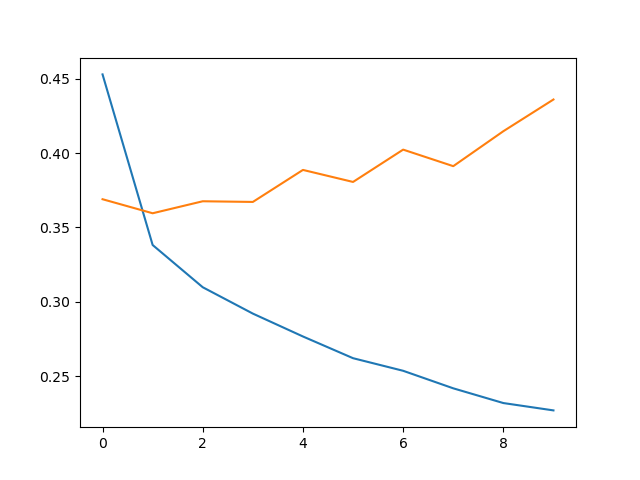
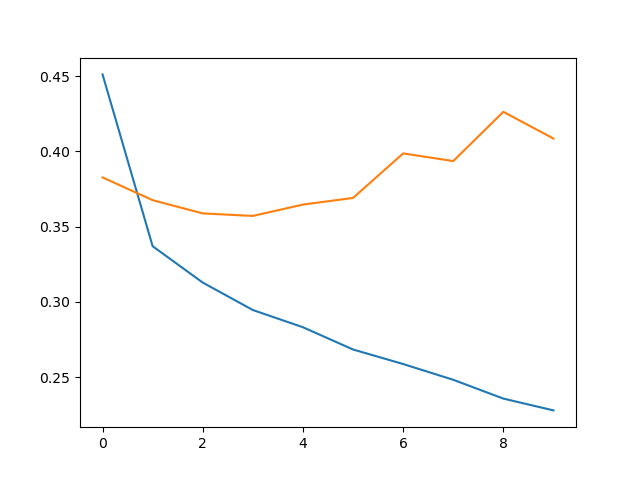
data

diff --git a/IT_SYSTEM/ch09lstm.py b/IT_SYSTEM/ch09lstm.py
@@ -12,6 +12,7 @@ tf.config.experimental.set_memory_growth(physical_devices[0], enable=True)
 print(np.shape(x_train_all))
 for i in range(len(x_train_all)):
     x_train_all[i] = [w for w in x_train_all[i] if w > 2]
+    x_test[i] = [w for w in x_test[i] if w > 2]
 print(np.shape(x_train_all))
 np.random.seed(42)
 random_index = np.random.permutation(25000)
@@ -20,54 +21,54 @@ y_train = y_train_all[random_index[:20000]]
 x_val = x_train_all[random_index[20000:]]
 y_val = y_train_all[random_index[20000:]]
 
-maxlength=100
-x_train_seq = sequence.pad_sequences(x_train, maxlen=maxlength)
-x_val_seq = sequence.pad_sequences(x_val, maxlen=maxlength)
-
-model_lstm = Sequential()
-model_lstm.add(Embedding(1000,32))
-model_lstm.add(LSTM(8))
-model_lstm.add(Dense(1,activation='sigmoid'))
-model_lstm.compile(optimizer = 'adam', loss = 'binary_crossentropy', metrics=['accuracy'])
-model_lstm.summary()
-history = model_lstm.fit(x_train_seq, y_train, epochs=10, batch_size=32, validation_data=(x_val_seq,y_val))
-"""
-Model: "sequential"
-embedding : same as embedding rnn
-LSTM :
-    forget, input, output, temporary cell have same size of weight
-    weight : W(h) + U(x) + b(bias) = 8 + 32 + 1
-    # of params : 4 x (8 + 32 + 1) * 8(recurrent cell) 1312
-dense : same as rnn
-
-_________________________________________________________________
-Layer (type)                 Output Shape              Param #   
-=================================================================
-embedding (Embedding)        (None, None, 32)          32000     
-_________________________________________________________________
-lstm (LSTM)                  (None, 8)                 1312      
-_________________________________________________________________
-dense (Dense)                (None, 1)                 9         
-=================================================================
-Total params: 33,321
-Trainable params: 33,321
-Non-trainable params: 0
-_________________________________________________________________
-Train on 20000 samples, validate on 5000 samples
-"""
-
-plt.plot(history.history['loss'])
-plt.plot(history.history['val_loss'])
-plt.savefig('ch09_06.png')
-plt.clf()
-
-plt.plot(history.history['accuracy'])
-plt.plot(history.history['val_accuracy'])
-plt.savefig('ch09_07.png')
-plt.clf()
-
-loss, accuracy = model_lstm.evaluate(x_val_seq, y_val, verbose=0)
-print(accuracy)
+# maxlength=100
+# x_train_seq = sequence.pad_sequences(x_train, maxlen=maxlength)
+# x_val_seq = sequence.pad_sequences(x_val, maxlen=maxlength)
+#
+# model_lstm = Sequential()
+# model_lstm.add(Embedding(1000,32))
+# model_lstm.add(LSTM(8))
+# model_lstm.add(Dense(1,activation='sigmoid'))
+# model_lstm.compile(optimizer = 'adam', loss = 'binary_crossentropy', metrics=['accuracy'])
+# model_lstm.summary()
+# history = model_lstm.fit(x_train_seq, y_train, epochs=10, batch_size=32, validation_data=(x_val_seq,y_val))
+# """
+# Model: "sequential"
+# embedding : same as embedding rnn
+# LSTM :
+#     forget, input, output, temporary cell have same size of weight
+#     weight : W(h) + U(x) + b(bias) = 8 + 32 + 1
+#     # of params : 4 x (8 + 32 + 1) * 8(recurrent cell) 1312
+# dense : same as rnn
+#
+# _________________________________________________________________
+# Layer (type)                 Output Shape              Param #
+# =================================================================
+# embedding (Embedding)        (None, None, 32)          32000
+# _________________________________________________________________
+# lstm (LSTM)                  (None, 8)                 1312
+# _________________________________________________________________
+# dense (Dense)                (None, 1)                 9
+# =================================================================
+# Total params: 33,321
+# Trainable params: 33,321
+# Non-trainable params: 0
+# _________________________________________________________________
+# Train on 20000 samples, validate on 5000 samples
+# """
+#
+# plt.plot(history.history['loss'])
+# plt.plot(history.history['val_loss'])
+# plt.savefig('ch09_06.png')
+# plt.clf()
+#
+# plt.plot(history.history['accuracy'])
+# plt.plot(history.history['val_accuracy'])
+# plt.savefig('ch09_07.png')
+# plt.clf()
+#
+# loss, accuracy = model_lstm.evaluate(x_val_seq, y_val, verbose=0)
+# print(accuracy)
 """
 Epoch 10/10
 625/625 [==============================] - 9s 14ms/step - loss: 0.2297 - accuracy: 0.9046 - val_loss: 0.4290 - val_accuracy: 0.8368
@@ -81,6 +82,14 @@ drop out & regularization : dense layer optimizing
 embedding space dimension : x & U
 cell dimension : h & W
 """
+EmbSpaces = [32, 128]
+Dictionaries = [1000, 4000, 10000]
+Skips = [20]
+MaxLengths =[100, 250]
+Ratios = [0]
+Cells = [8, 64, 512]
+regs = [0]
+"""
 Dictionaries = [1000, 4000, 10000]
 Skips = [0, 20, 40]
 MaxLengths =[100, 250, 500, 1000, 2000]
@@ -88,6 +97,7 @@ Ratios = [0, 0.25, 0.5]
 Cells = [8, 32, 128, 512]
 EmbSpaces = [32, 64, 128, 256, 512]
 regs = [0, 1e-5, 1e-4]
+"""
 with open("imdb_result.csv", "w", encoding="UTF-8") as f:
     f.write("Dict size,Skip words,max length,drop out,cell size,embedding dim,regularization,test_loss,test_acc")
     for Dict in Dictionaries:
@@ -101,6 +111,7 @@ with open("imdb_result.csv", "w", encoding="UTF-8") as f:
                                 print(np.shape(x_train_all))
                                 for i in range(len(x_train_all)):
                                     x_train_all[i] = [w for w in x_train_all[i] if w > 2]
+                                    x_test[i] = [w for w in x_test[i] if w > 2]
                                 print(np.shape(x_train_all))
                                 np.random.seed(42)
                                 random_index = np.random.permutation(25000)
@@ -117,11 +128,11 @@ with open("imdb_result.csv", "w", encoding="UTF-8") as f:
                                 model_lstm = Sequential()
                                 model_lstm.add(Embedding(Dict, Emb))
                                 model_lstm.add(LSTM(cell))
-                                model_lstm.add(Dropout(drop))
                                 model_lstm.add(Dense(1, activation='sigmoid'))
                                 model_lstm.compile(optimizer='adam', loss='binary_crossentropy', metrics=['accuracy'])
                                 model_lstm.summary()
-                                history = model_lstm.fit(x_train_seq, y_train, epochs=10, batch_size=32,
+                                print("max length :", maxlength, "Vocab size", Dict, "Embedded size", Emb, "Cell", cell)
+                                history = model_lstm.fit(x_train_seq, y_train, epochs=10, batch_size=128,
                                                          validation_data=(x_val_seq, y_val))
                                 print("training end!")
                                 loss, accuracy = model_lstm.evaluate(x_test, y_test, verbose=0)
@@ -130,5 +141,33 @@ with open("imdb_result.csv", "w", encoding="UTF-8") as f:
                                 f.write("{}".format(Dict) + ',' + "{}".format(skip) + ',' + "{}".format(maxlength) + ',' + "{}".format(drop)
                                         + ',' + "{}".format(cell) + ',' + "{}".format(Emb) + ',' + "{}".format(reg)
                                         + ',' + "{0:.4f}".format(loss) + ',' + "{0:.4f}".format(accuracy) + '\n')
+                                plt.plot(history.history['loss'])
+                                plt.plot(history.history['val_loss'])
+                                plt.ylabel('loss')
+                                plt.xlabel('epoch')
+                                plt.legend(['train_loss', 'val_loss'])
+                                plt.grid(b=True, which='major', color='#666666', linestyle='-')
+                                plt.minorticks_on()
+                                plt.grid(b=True, which='minor', color='#999999', linestyle='-', alpha=0.2)
+                                plt.title(
+                                    "<LOSS: {:0.3f}> Dict {} Emb {} Max: {} Cell: {}".format(loss, Dict, Emb, maxlength
+                                                                                                , cell))
+
+                                plt.savefig('ch09_loss_D{}E{}M{}C{}.png'.format(Dict, Emb, maxlength, cell))
+                                plt.clf()
+
+                                plt.plot(history.history['accuracy'])
+                                plt.plot(history.history['val_accuracy'])
+                                plt.ylabel('accuracy')
+                                plt.xlabel('epoch')
+                                plt.legend(['train_accuracy', 'val_accuracy'])
+                                plt.grid(b=True, which='major', color='#666666', linestyle='-')
+                                plt.minorticks_on()
+                                plt.grid(b=True, which='minor', color='#999999', linestyle='-', alpha=0.2)
+                                plt.title(
+                                    "<Accuracy: {:0.3f}>Dict:{} Emb:{} Max:{} Cell:{}".format(accuracy, Dict, Emb, maxlength
+                                                                                                , cell))
+                                plt.savefig('ch09_acc_D{}E{}M{}C{}.png'.format(Dict, Emb, maxlength, cell))
+                                plt.clf()
 
 
